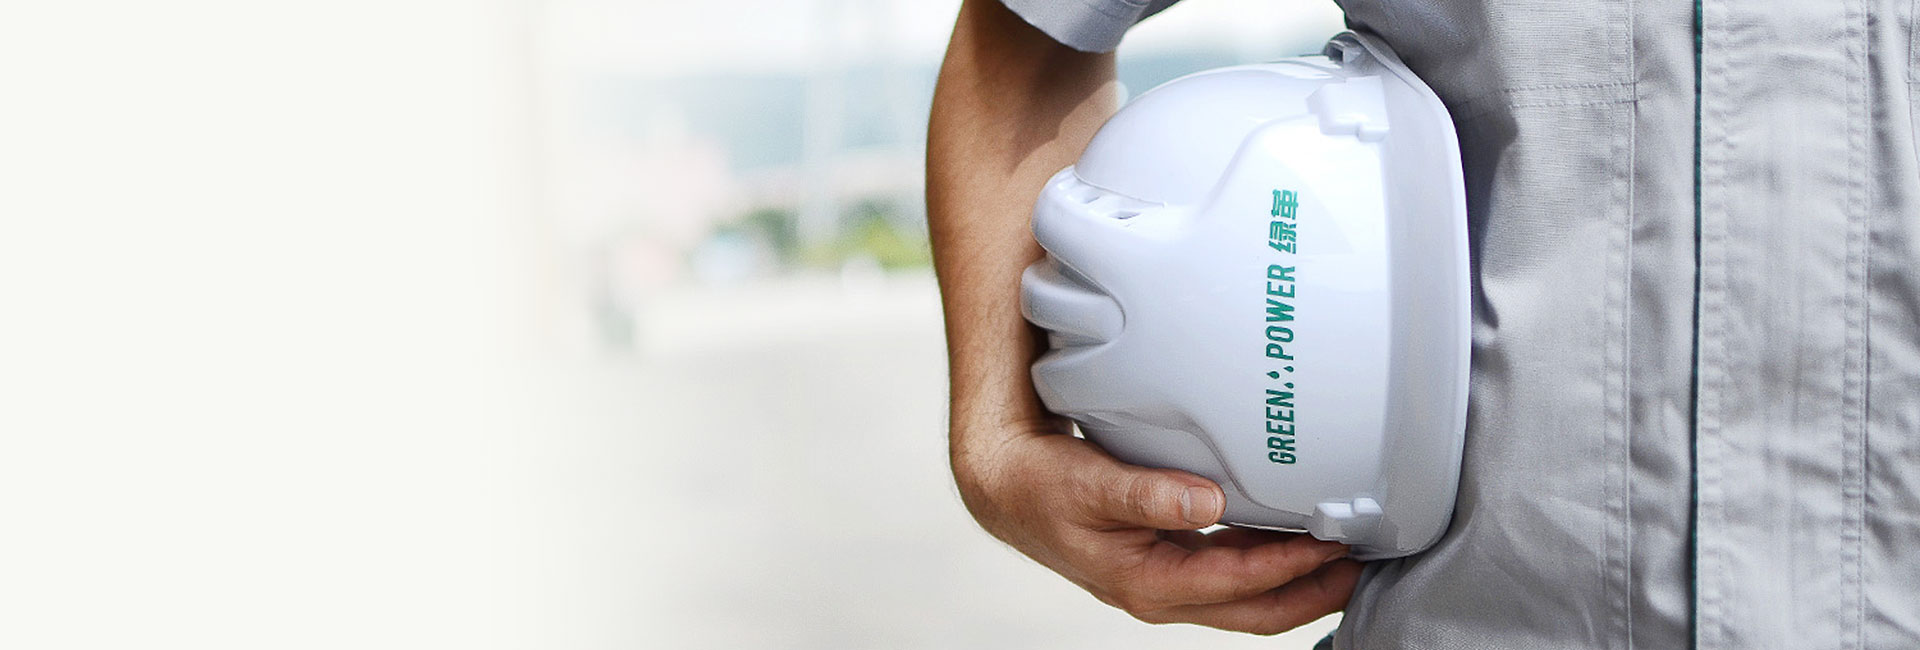
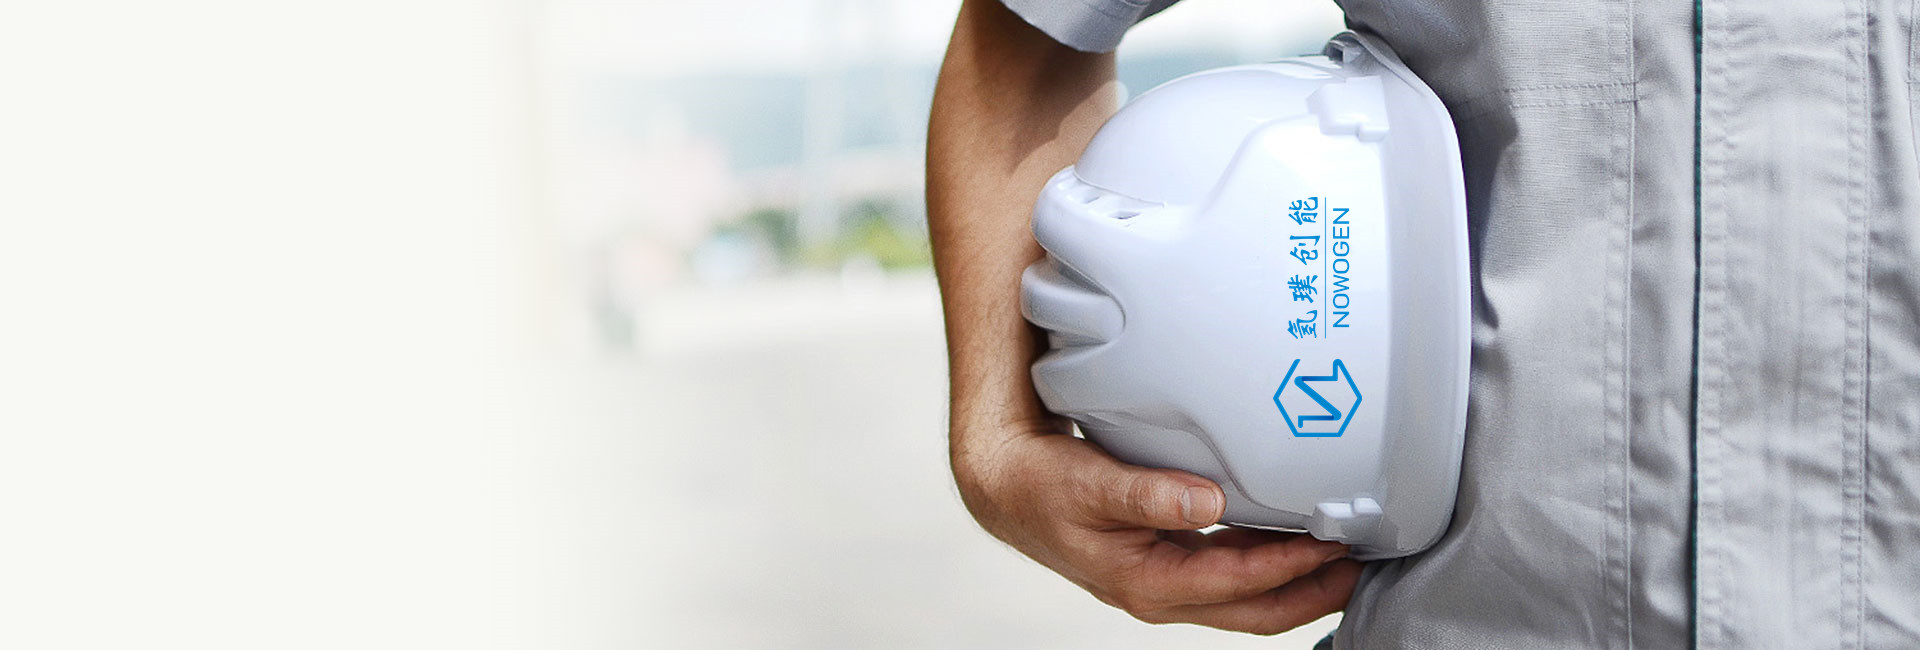
2

Changed region(s): [[0.6562, 0.2769, 0.7188, 0.7077]]

diff --git a/liaojieqingpu.html b/liaojieqingpu.html
@@ -121,7 +121,7 @@
                             <div class="line"></div>
                         </div>                    
                     </div>
-                    <img class="bannerbg" src="images/9e257d607fba9b43e858493f2366d9f.jpg" alt="">          
+                    <img class="bannerbg" src="images/about-banner.jpg" alt="">          
                 </div>
             </div>
         </div>
